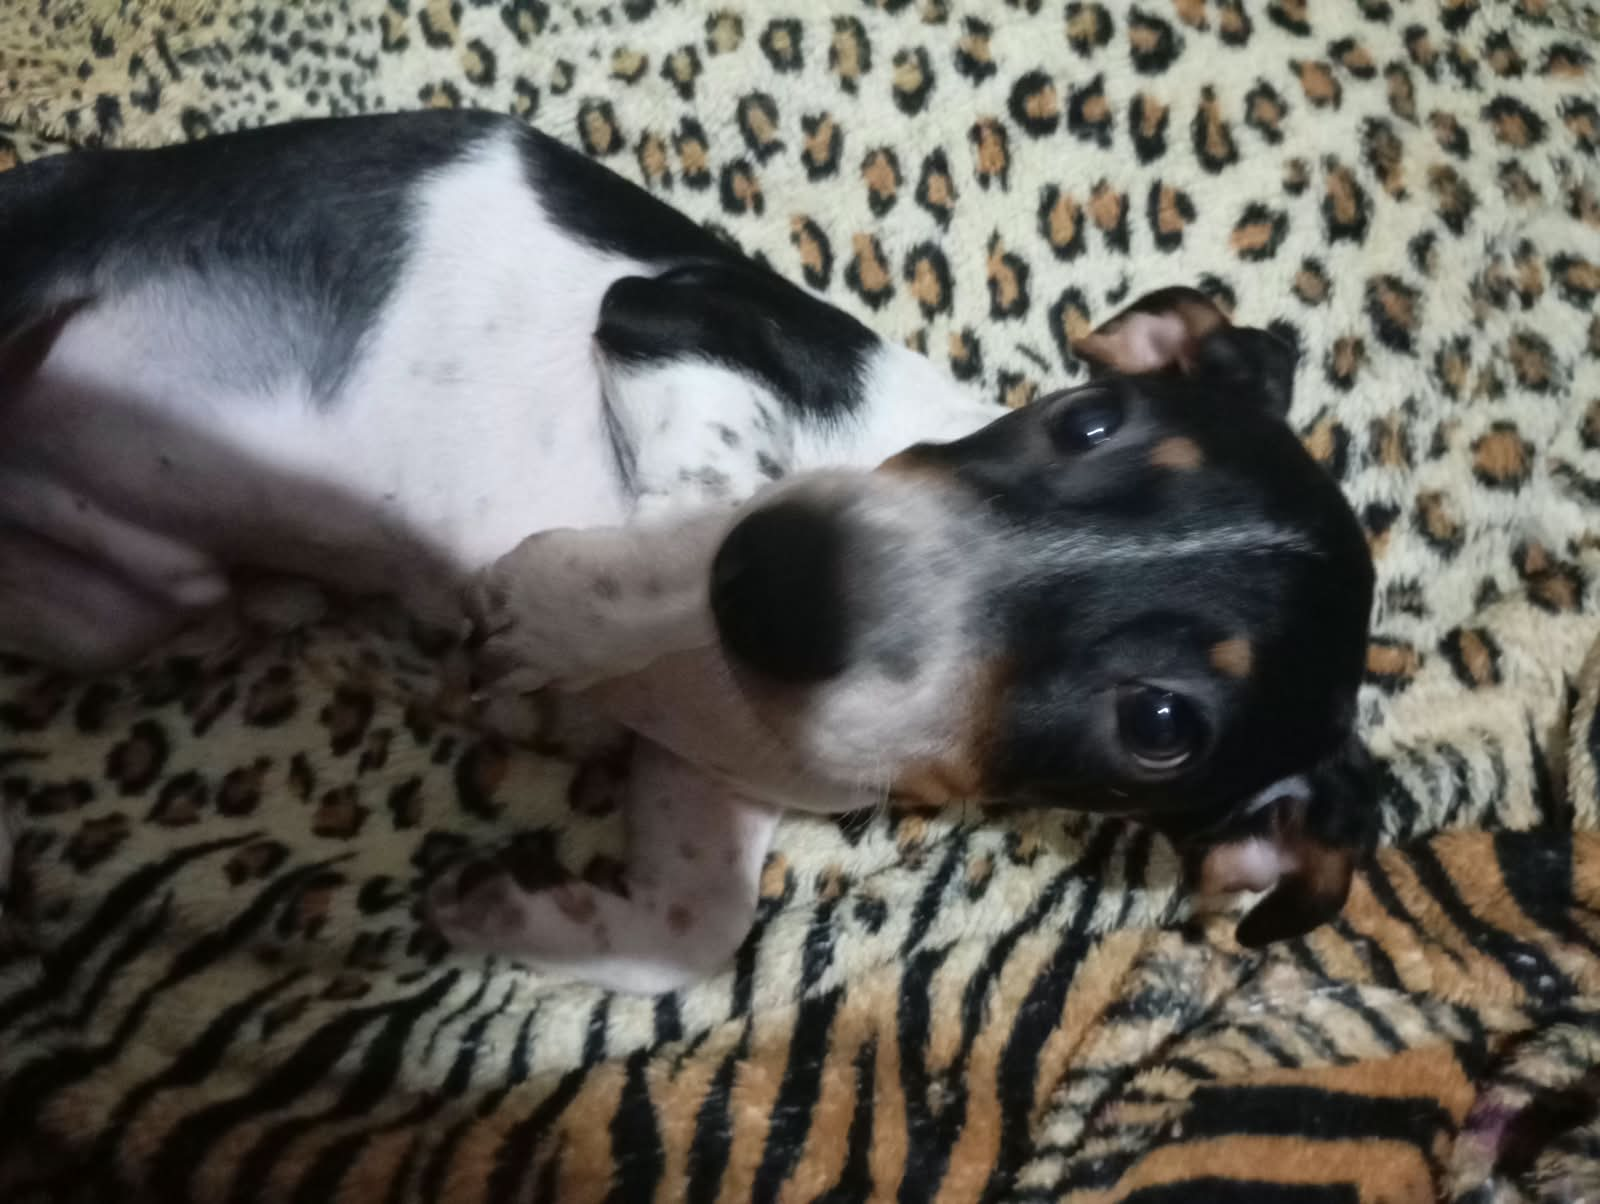
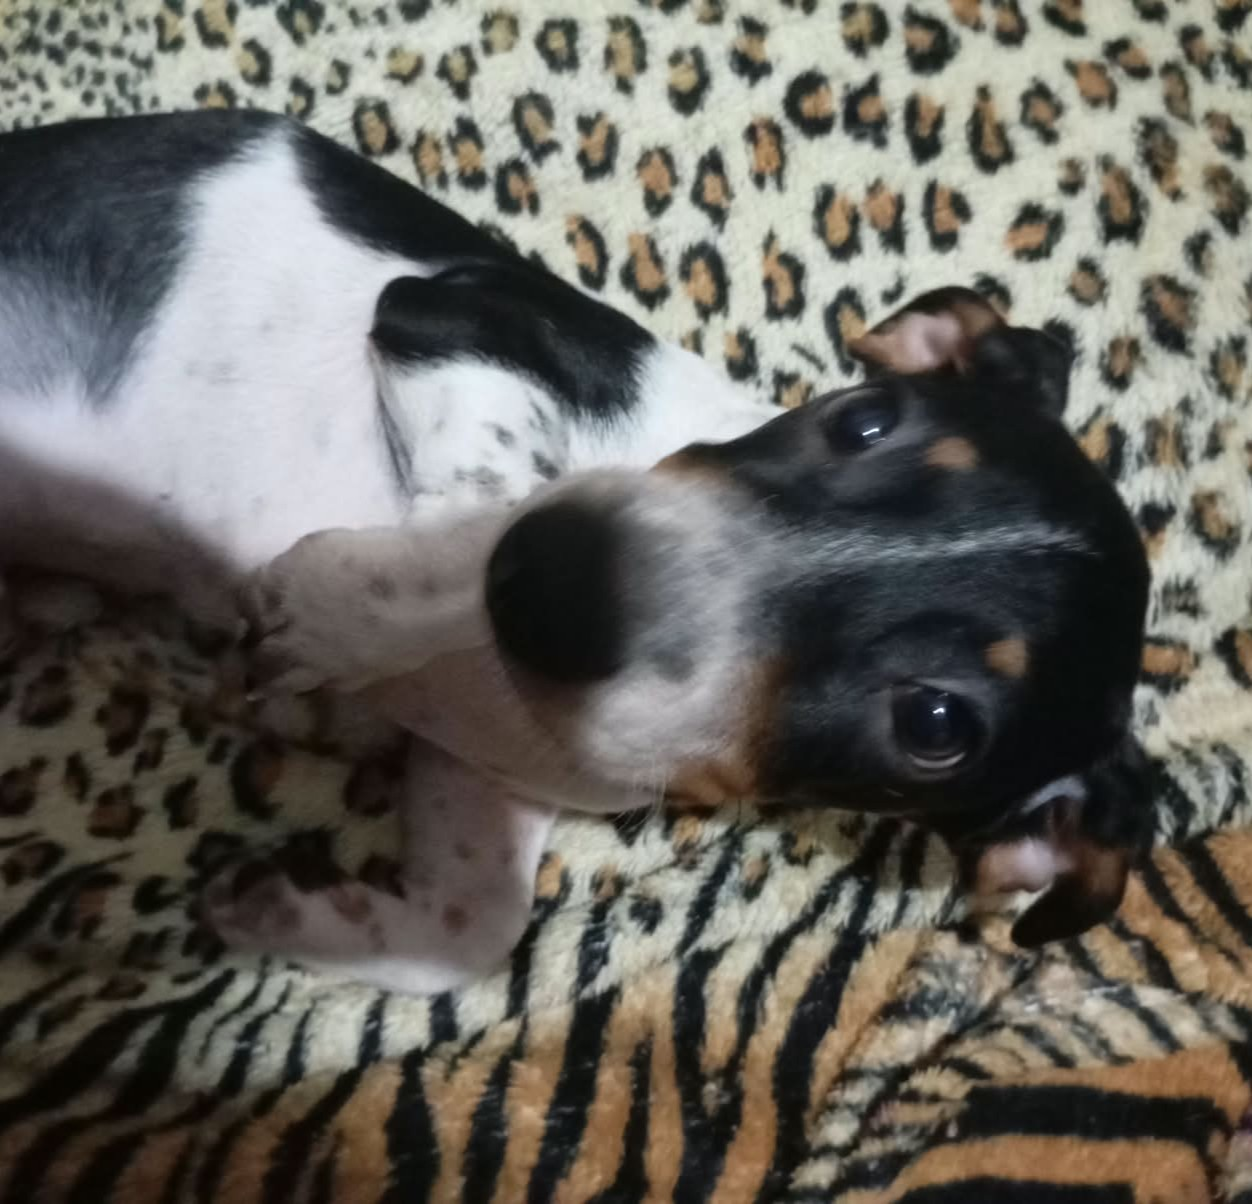
err

diff --git a/style.css b/style.css
@@ -151,7 +151,7 @@ h3 {
 .carousel {
     overflow:hidden;
     position:relative;
-    width: 1000px;
+    width: auto;
     
 }
 
@@ -163,32 +163,34 @@ h3 {
 .carousel-slide {
     min-width:100%;
     flex-shrink:0;
-    background-image: url("/images/fundopataslaterais.jpeg");
+    background-image: url("/images/fundopataslaterais.jpeg") ;
+    background-size: cover;
 }
 
 .carousel-slide img {
     display:block;
     width:100%;
-    height:auto
+    height:auto;
+    object-fit: contain;
 }
 
 .carousel-slide img {
     display: block;
-    width: 300px;
+    min-width: 300px;
     height: 400px;
     align-items: center;
 }
 
 .next {
-    width: 90px;
-    height: 100px;
-    font-size: 50px;
+    width: 60px;
+    height: 60px;
+    font-size: 30px;
 }
 
 .prev {
-    width: 90px;
-    height: 100px;
-    font-size: 50px;
+    width: 60px;
+    height: 60px;
+    font-size: 30px;
 }
 
 .como-funciona__passo1 {
@@ -484,8 +486,9 @@ article.caixapet {
     padding: 20px;
     margin: 0;
     box-shadow: 1px 4px 8px rgba(0, 0, 0, 0.1);
-    width: 300px;
-    height: auto;
+    height: 500px;
+    min-width: fit-content;
+    min-height: fit-content;
     box-sizing: border-box;
     transition: transform 0.3s ease;
 }
@@ -495,7 +498,7 @@ article.caixapet {
     display: flex;
     flex-direction: row;
     flex-wrap: wrap;
-    justify-content: space-between;
+    justify-content: space-around;
     width: 100%;
     background-color: #80928e;
     margin-top: 0px;
@@ -504,15 +507,14 @@ article.caixapet {
 .sectionpets {
     display: flex;
     flex-wrap: wrap;
-    justify-content: space-around;
+    justify-content:space-between;
     flex-direction: column;
 }
 
 .caixapet img {
     width: 100%;
-    height: 300px;
-    object-fit: cover;
-    border-radius: 10px;
+    object-fit:contain;
+    border-radius: 1px;
     margin-bottom: 12px;
 }
 
@@ -522,6 +524,7 @@ article.caixapet {
     font-size: 32px;
     color: #1e3b29;
     margin: 0 0 6px;
+    text-align: center;
 }
 
 .caixapet p {
@@ -541,6 +544,7 @@ article.caixapet {
     font-size: 16px;
     margin-top: 8px;
     transition: transform 0.2s ease;
+    position:relative;
 }
 
 .caixapet a {
@@ -629,7 +633,7 @@ nav.navPrincipal {
 }
 
 .caixapet img {
-    height: 240px;
+    height: 340px;
 }
 
 
@@ -681,8 +685,8 @@ section.sectpets {
 }
 .perfilpet p{
     font-family:"Caveat",cursive; 
-     display: flex;
-     flex-direction: column;
+    display: flex;
+    flex-direction: column;
 
 }
 .perfilpet button {
@@ -702,6 +706,11 @@ section.sectpets {
 .titulofav {
     color: #264f3e;
 }
+.mensagemFav {
+    font-family: "caveat";
+    font-size: 30px;
+}
+
 
 .sectionfav{
     display: flex;

diff --git a/favoritos.html b/favoritos.html
@@ -29,9 +29,8 @@
     </nav>
 </header>
 <main>
-    <h1 class="titulofav">Favoritos</h1>
     <section class="sectionfav">
-        <h3 id ="mensagemFav">Você ainda não tem nenhum favorito,favorite um para ele aparecer aqui
+        <h3 id ="mensagemFav" class="mensagemFav">Você ainda não tem nenhum favorito,favorite um para ele aparecer aqui
         </h3>
         <article class="favoritos" id="favoritos">
         </article>

diff --git a/home.html b/home.html
@@ -61,7 +61,7 @@
 <div class="carousel" role="region" aria-label="Galeria de produtos">
     <ul class="carousel-track">
         <li class="carousel-slide" aria-hidden="false">
-            <img src="/images/paçoca.jpeg">
+            <img src="/images/paçoca.jpeg" class="carousel-foto">
         </li>
 
         <li class="carousel-slide" aria-hidden="true">
